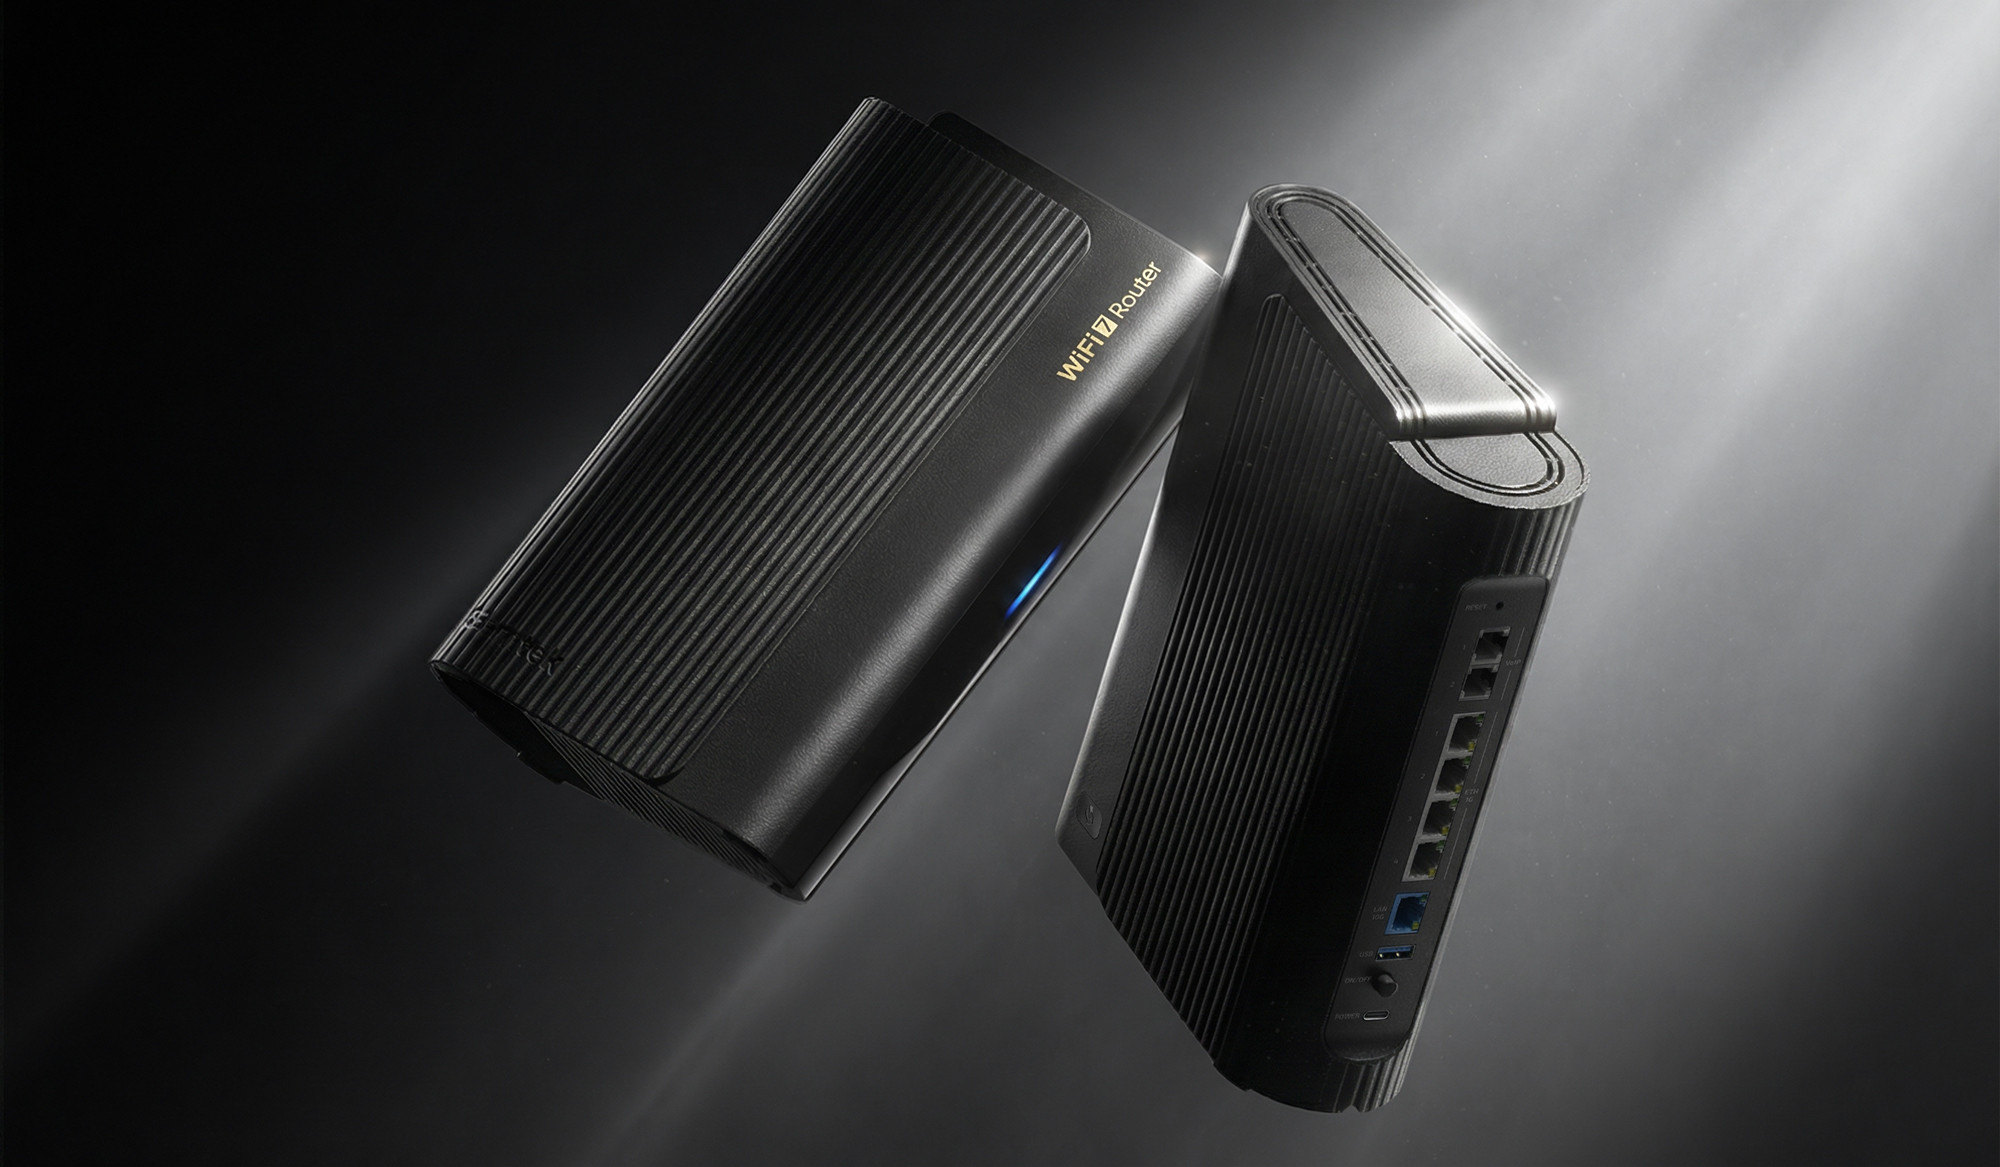
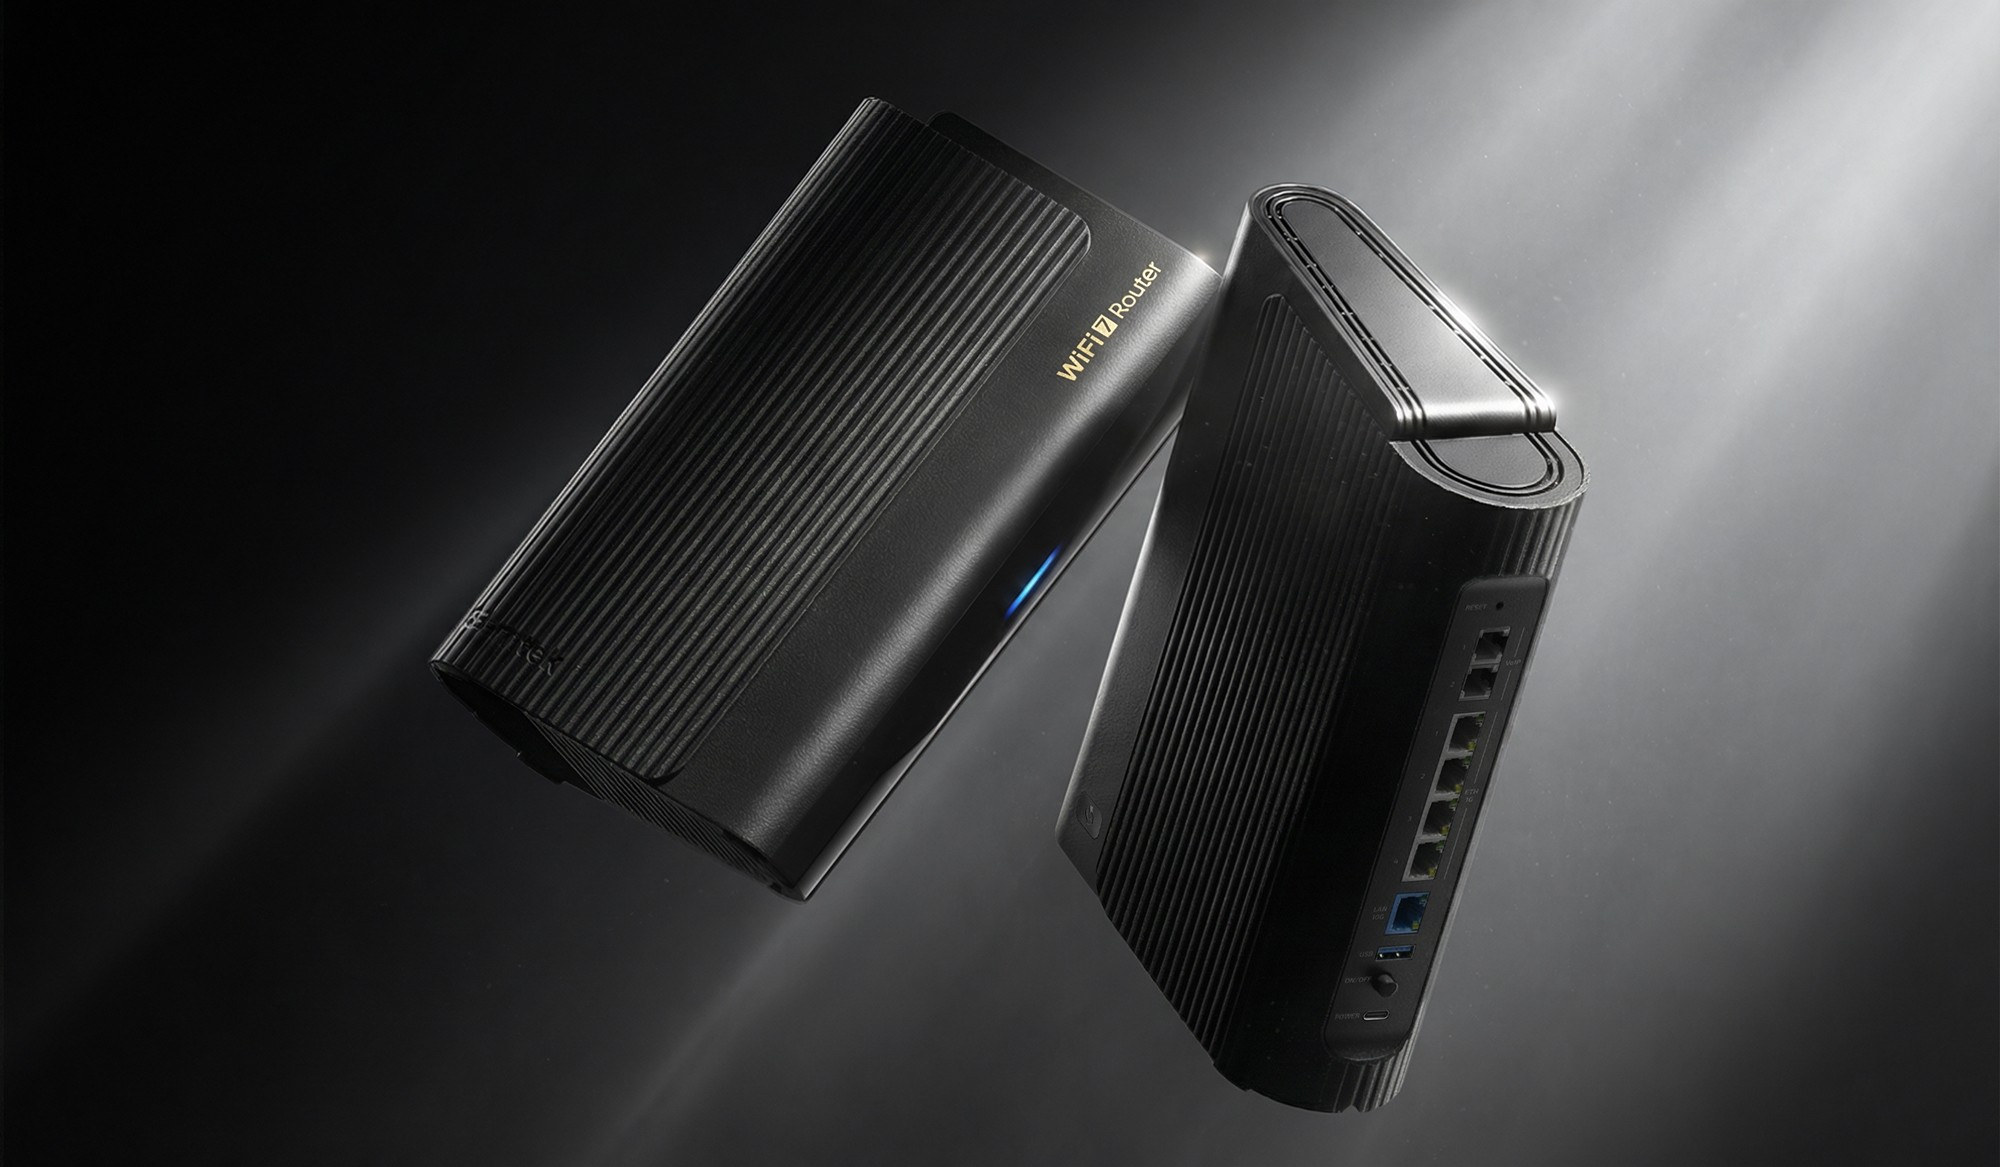
Home slide 4: Joel's cleaner black-router image; media-new/ drop folder for full-size originals

Changed region(s): [[0.62, 0.1542, 0.806, 0.4319]]

diff --git a/CHANGELOG.md b/CHANGELOG.md
@@ -9,6 +9,10 @@ Entries before 2026-11-24 evening were reconstructed from code comments and READ
 
 ## 2026-11-26
 
+### Home slide 4 (black Wi-Fi 7 routers): Joel's cleaner version
+- Same size as before (2000x1167) but less noise; `home/home-04-2000x1167.jpg` re-made from it (256 KB), original kept as `media-originals/jcd_home-routers-black_2000x1167.jpg`. Only used on the home slideshow (desktop + phone).
+- New folder `media-new/` (not published, git-ignored except its README): images pasted into the chat arrive shrunk to 2000px wide, so full-size originals should be dropped there instead.
+
 ### T-Blade on its cart: Joel's new render
 - Joel's new image (2000x1147, 334 KB JPEG, kept as `media-originals/jcd_t-blade-on-cart_2000x1147.jpg`) replaces the old render everywhere it was used: T-Blade page (image 13), home slideshow slide 6, Defense category tile (desktop + phone). Files: `t-blade/t-blade-13-2000x1147.jpg` (326 KB, q88 4:4:4) and `t-blade/t-blade-13-560x321.jpg` (phone tiles, 31 KB); old `home-06-*`, `defense-02-*`, `t-blade-13-2283x1284/560x314` removed. Note: the pasted file is 2000px wide (the old original was 3325px) — fine on laptops, slightly soft as a full-screen slide on 2560+/4K; a larger export can replace it the same way.
 
